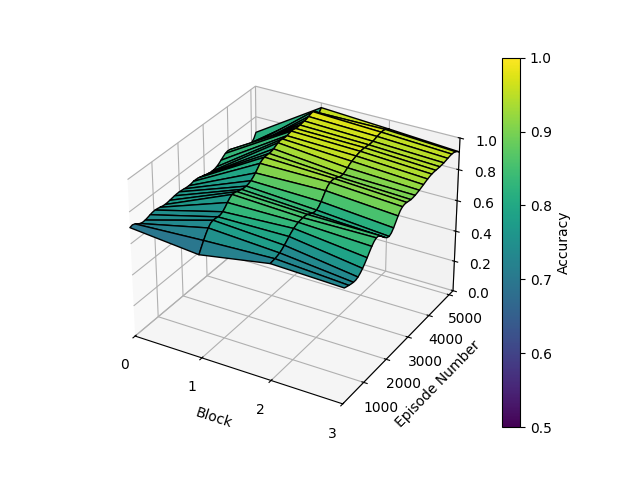
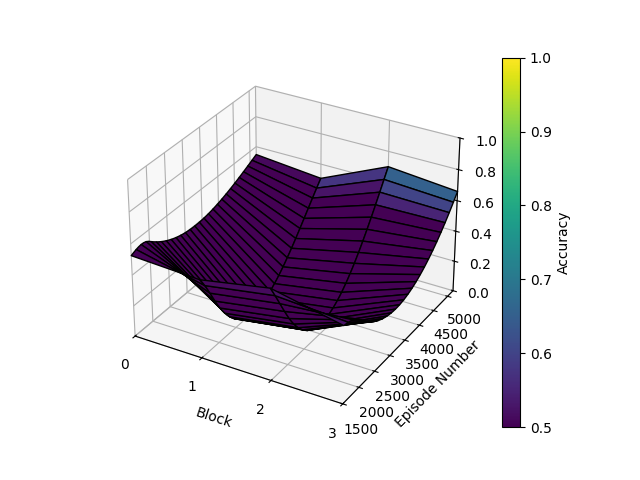
🍻 feat: tcav fungerer. Suckit @eirikreiestad <33

Changed region(s): [[0.1875, 0.1875, 0.75, 0.9062], [0.4375, 0.75, 0.5312, 0.7812], [0.5312, 0.7812, 0.5625, 0.8125]]

diff --git a/xai/cav/cav.py b/xai/cav/cav.py
@@ -315,7 +315,14 @@ class CAV:
 
             # Embedding activations before the blocks
             negative, q_values_negative = create_activation_dataset(
-                f"./dataset/negative_{concept}.csv",
+                f"./dataset/{concept}_negative_train.csv",
+                model_path,
+                0,
+                embedding=True,
+                requires_grad=sensitivity,
+            )
+            negative_test, q_values_negative_test = create_activation_dataset(
+                f"./dataset/{concept}_negative_test.csv",
                 model_path,
                 0,
                 embedding=True,
@@ -325,7 +332,15 @@ class CAV:
             assert isinstance(negative, torch.Tensor), "Negative must be a tensor"
 
             positive, q_values_positive = create_activation_dataset(
-                f"./dataset/positive_{concept}.csv",
+                f"./dataset/{concept}_positive_train.csv",
+                model_path,
+                0,
+                embedding=True,
+                requires_grad=sensitivity,
+            )
+
+            positive_test, q_values_positive_test = create_activation_dataset(
+                f"./dataset/{concept}_positive_test.csv",
                 model_path,
                 0,
                 embedding=True,
@@ -336,17 +351,7 @@ class CAV:
 
             # dataset = self.load_dataset(positive_file, negative_file)
             #dataset = self.create_dataset(positive, negative)
-            """length_train_positive = int(0.8 * len(positive))
-            length_test_positive = len(positive) - length_train_positive
-            positive_train, positive_test = random_split(
-                positive, [length_train_positive, length_test_positive]
-            )
 
-            length_train_negative = int(0.8 * len(negative))
-            length_test_negative = len(negative) - length_train_negative
-            negative_train, negative_test = random_split(
-                negative, [length_train_negative, length_test_negative]
-            )"""
             # # Randomly shuffle indices
             # indices_positive = torch.randperm(len(positive))  # This operation is gradient-safe
 
@@ -387,29 +392,45 @@ class CAV:
                 episode_number,
                 positive,
                 negative,
-                positive,
-                negative,
+                positive_test,
+                negative_test,
             )
             #test_dataset_tensor = [test_dataset[i][0] for i in range(len(test_dataset))]
             # Calculate the tcav
             if sensitivity:
-                self.calculate_tcav(cav, positive, negative, q_values_positive, q_values_negative)
+                self.calculate_tcav(cav, positive, negative, q_values_positive, q_values_negative, 0, episode_number)
 
             for block in range(1, 4):
                 # load dataset
                 negative, q_values_negative = create_activation_dataset(
-                    f"./dataset/negative_{concept}.csv",
+                    f"./dataset/{concept}_negative_train.csv",
                     model_path,
                     block - 1,
                     embedding=False,
                     requires_grad=sensitivity,
                 )
+                negative_test, q_values_negative_test = create_activation_dataset(
+                f"./dataset/{concept}_negative_test.csv",
+                model_path,
+                0,
+                embedding=False,
+                requires_grad=sensitivity,
+                )
+
                 positive, q_values_positive = create_activation_dataset(
-                    f"./dataset/positive_{concept}.csv",
+                    f"./dataset/{concept}_positive_train.csv",
                     model_path,
                     block - 1,
                     embedding=False,
                     requires_grad=sensitivity,
+                )
+
+                positive_test, q_values_positive_test = create_activation_dataset(
+                f"./dataset/{concept}_positive_test.csv",
+                model_path,
+                0,
+                embedding=True,
+                requires_grad=sensitivity,
                 )
                 # Load dataset and q_values
                 """dataset = self.create_dataset(positive, negative)
@@ -429,7 +450,7 @@ class CAV:
 
 
                 if sensitivity:
-                    self.calculate_tcav(cav, positive, negative, q_values_positive, q_values_negative)
+                    self.calculate_tcav(cav, positive_test, negative_test, q_values_positive_test, q_values_negative_test, block, episode_number)
         # Save the CAV list
         torch.save(self.cav_list, f"./cav_list_{concept}.pt")
         torch.save(self.tcav_list, f"./tcav_list_{concept}.pt")
@@ -468,7 +489,7 @@ class CAV:
         return np.dot(grad_flattened, cav.T)
 
     def calculate_tcav(
-        self, cav: np.ndarray, positive_test_data, negative_test_data, q_values_positive: torch.Tensor, q_values_negative: torch.Tensor
+        self, cav: np.ndarray, positive_test_data, negative_test_data, q_values_positive: torch.Tensor, q_values_negative: torch.Tensor, block, episode_number
     ):
 
         # Get the activations
@@ -476,7 +497,8 @@ class CAV:
         network_output = q_values_positive
         sensitivity = self.calculate_sensitivity(activations, network_output, cav)
         tcav = (sensitivity > 0).mean()
-        self.tcav_list.append(tcav)
+
+        self.tcav_list.append((block, episode_number, tcav))
 
     def random_cav_model(self, random_file: str):
 

diff --git a/xai/cav/build_dataset_cav.py b/xai/cav/build_dataset_cav.py
@@ -5,6 +5,7 @@ from collections import deque
 import copy
 import pandas as pd
 import random as rd
+import ast
 
 import torch
 
@@ -275,6 +276,26 @@ def build_csv_dataset():
     print("Goal: ", len(positive_dataset_goal))
     print("Inside box: ", len(positive_dataset_inside_box))
 
+def split_dataset_into_train_test(dataset: deque, ratio: float = 0.8, concept: str = ""):
+    # Split the dataset into a training and test set
+    train_size = int(len(dataset) * ratio)
+    train_dataset = dataset[:train_size]
+    test_dataset = dataset[train_size:]
+
+
+    train = [
+        [torch.tensor(ast.literal_eval(state)) for state in states]
+        for _, states in train_dataset.iterrows()
+    ]
+    test = [
+        [torch.tensor(ast.literal_eval(state)) for state in states]
+        for _, states in test_dataset.iterrows()
+    ]
+
+    save_to_csv(train, f"{concept}_train.csv")
+    save_to_csv(test, f"{concept}_test.csv")
+
+    return train_dataset, test_dataset
 
 def run_agent(env: SunburstMazeDiscrete, agent: DTQN_Agent):
 
@@ -344,7 +365,31 @@ def run_agent(env: SunburstMazeDiscrete, agent: DTQN_Agent):
 
 
 def main():
-    build_csv_dataset()
+    #build_csv_dataset()
+
+    # Load the datasets
+    positive_wall = pd.read_csv("./dataset/positive_wall.csv")
+    negative_wall = pd.read_csv("./dataset/negative_wall.csv")
+
+    positive_rotating = pd.read_csv("./dataset/positive_rotating.csv")
+    negative_rotating = pd.read_csv("./dataset/negative_rotating.csv")
+
+    positive_goal = pd.read_csv("./dataset/positive_goal.csv")
+    negative_goal = pd.read_csv("./dataset/negative_goal.csv")
+    # Split the datasets into training and test sets
+
+    split_dataset_into_train_test(positive_wall, ratio=0.8, concept="wall_positive")
+    split_dataset_into_train_test(negative_wall, ratio=0.8, concept="wall_negative")
+
+    split_dataset_into_train_test(positive_rotating, ratio=0.8, concept="rotating_positive")
+    split_dataset_into_train_test(negative_rotating, ratio=0.8, concept="rotating_negative")
+
+    split_dataset_into_train_test(positive_goal, ratio=0.8, concept="goal_positive")
+    split_dataset_into_train_test(negative_goal, ratio=0.8, concept="goal_negative")
+    
+
+
+
 
 
 if __name__ == "__main__":

diff --git a/xai/cav/cav_ff/cav_ff.py b/xai/cav/cav_ff/cav_ff.py
@@ -336,7 +336,7 @@ class CAV:
 
 def main():
     cav = CAV()
-    model_load_path = "../../../agent/model/feed_forward/frosty-pine-972"
+    model_load_path = "../../../agent/model/feed_forward/serene-voice-977"
     # positive_file = "dataset/positive_wall_activations.pt"
     # negative_file = "dataset/negative_wall_activations.pt"
     cav.calculate_cav("goal", model_load_path)
